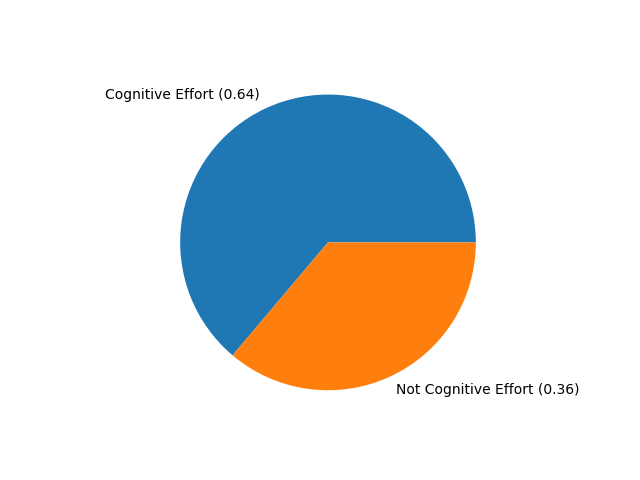
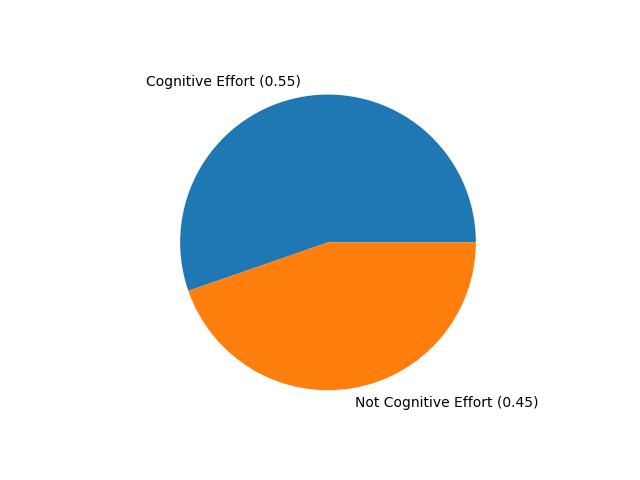
add pie plots for total statistics

Changed region(s): [[0.2812, 0.5, 0.5312, 0.75], [0.5625, 0.7812, 0.9062, 0.875], [0.1562, 0.1562, 0.4688, 0.2188]]

diff --git a/statistics/plots.py b/statistics/plots.py
@@ -12,3 +12,24 @@ def get_labels_pie_plot(df_label):
         plt.pie(data, labels=labels)
         plt.savefig('plots/median_labels/macro_categories/' + df_label['MACRO_CATEGORY'][i] + '.png')
         plt.close()
+
+
+def get_total_labels_pie_plot(df_label):
+
+    cognitive_effort = 0
+    not_cognitive_effort = 0
+
+    for i in df_label.index:
+        cognitive_effort += df_label['N_COGNITIVE_EFFORT'][i]
+        not_cognitive_effort += df_label['N_NOT_COGNITIVE_EFFORT'][i]
+
+    total = cognitive_effort + not_cognitive_effort
+
+    perc_cognitive_effort =  round(cognitive_effort / total, 2)
+    perc_not_cognitive_effort = round(not_cognitive_effort / total, 2)
+    labels = ['Cognitive Effort (' + str(perc_cognitive_effort) + ')' , 'Not Cognitive Effort (' + str(perc_not_cognitive_effort) + ')']
+    data = [cognitive_effort, not_cognitive_effort]
+    plt.figure()
+    plt.pie(data, labels=labels)
+    plt.savefig('plots/median_labels/macro_categories/all.png')
+    plt.close()

diff --git a/get_answer_labels.py b/get_answer_labels.py
@@ -41,4 +41,3 @@ df_macro_categories_labelled_mean.to_csv('datasets/results/labels/mean/labels_me
 df_macro_categories_labelled_median.to_csv('datasets/results/labels/median/labels_median_macro_categories_all_info.csv', index=False)
 df_labelled_macro_categories_mean_statistics.to_csv('datasets/results/labels/statistic/labels_mean_statistics_macro_categories_all_info.csv', index=False)
 df_labelled_macro_categories_median_statistics.to_csv('datasets/results/labels/statistic/labels_median_statistics_macro_categories_all_info.csv', index=False)
-
